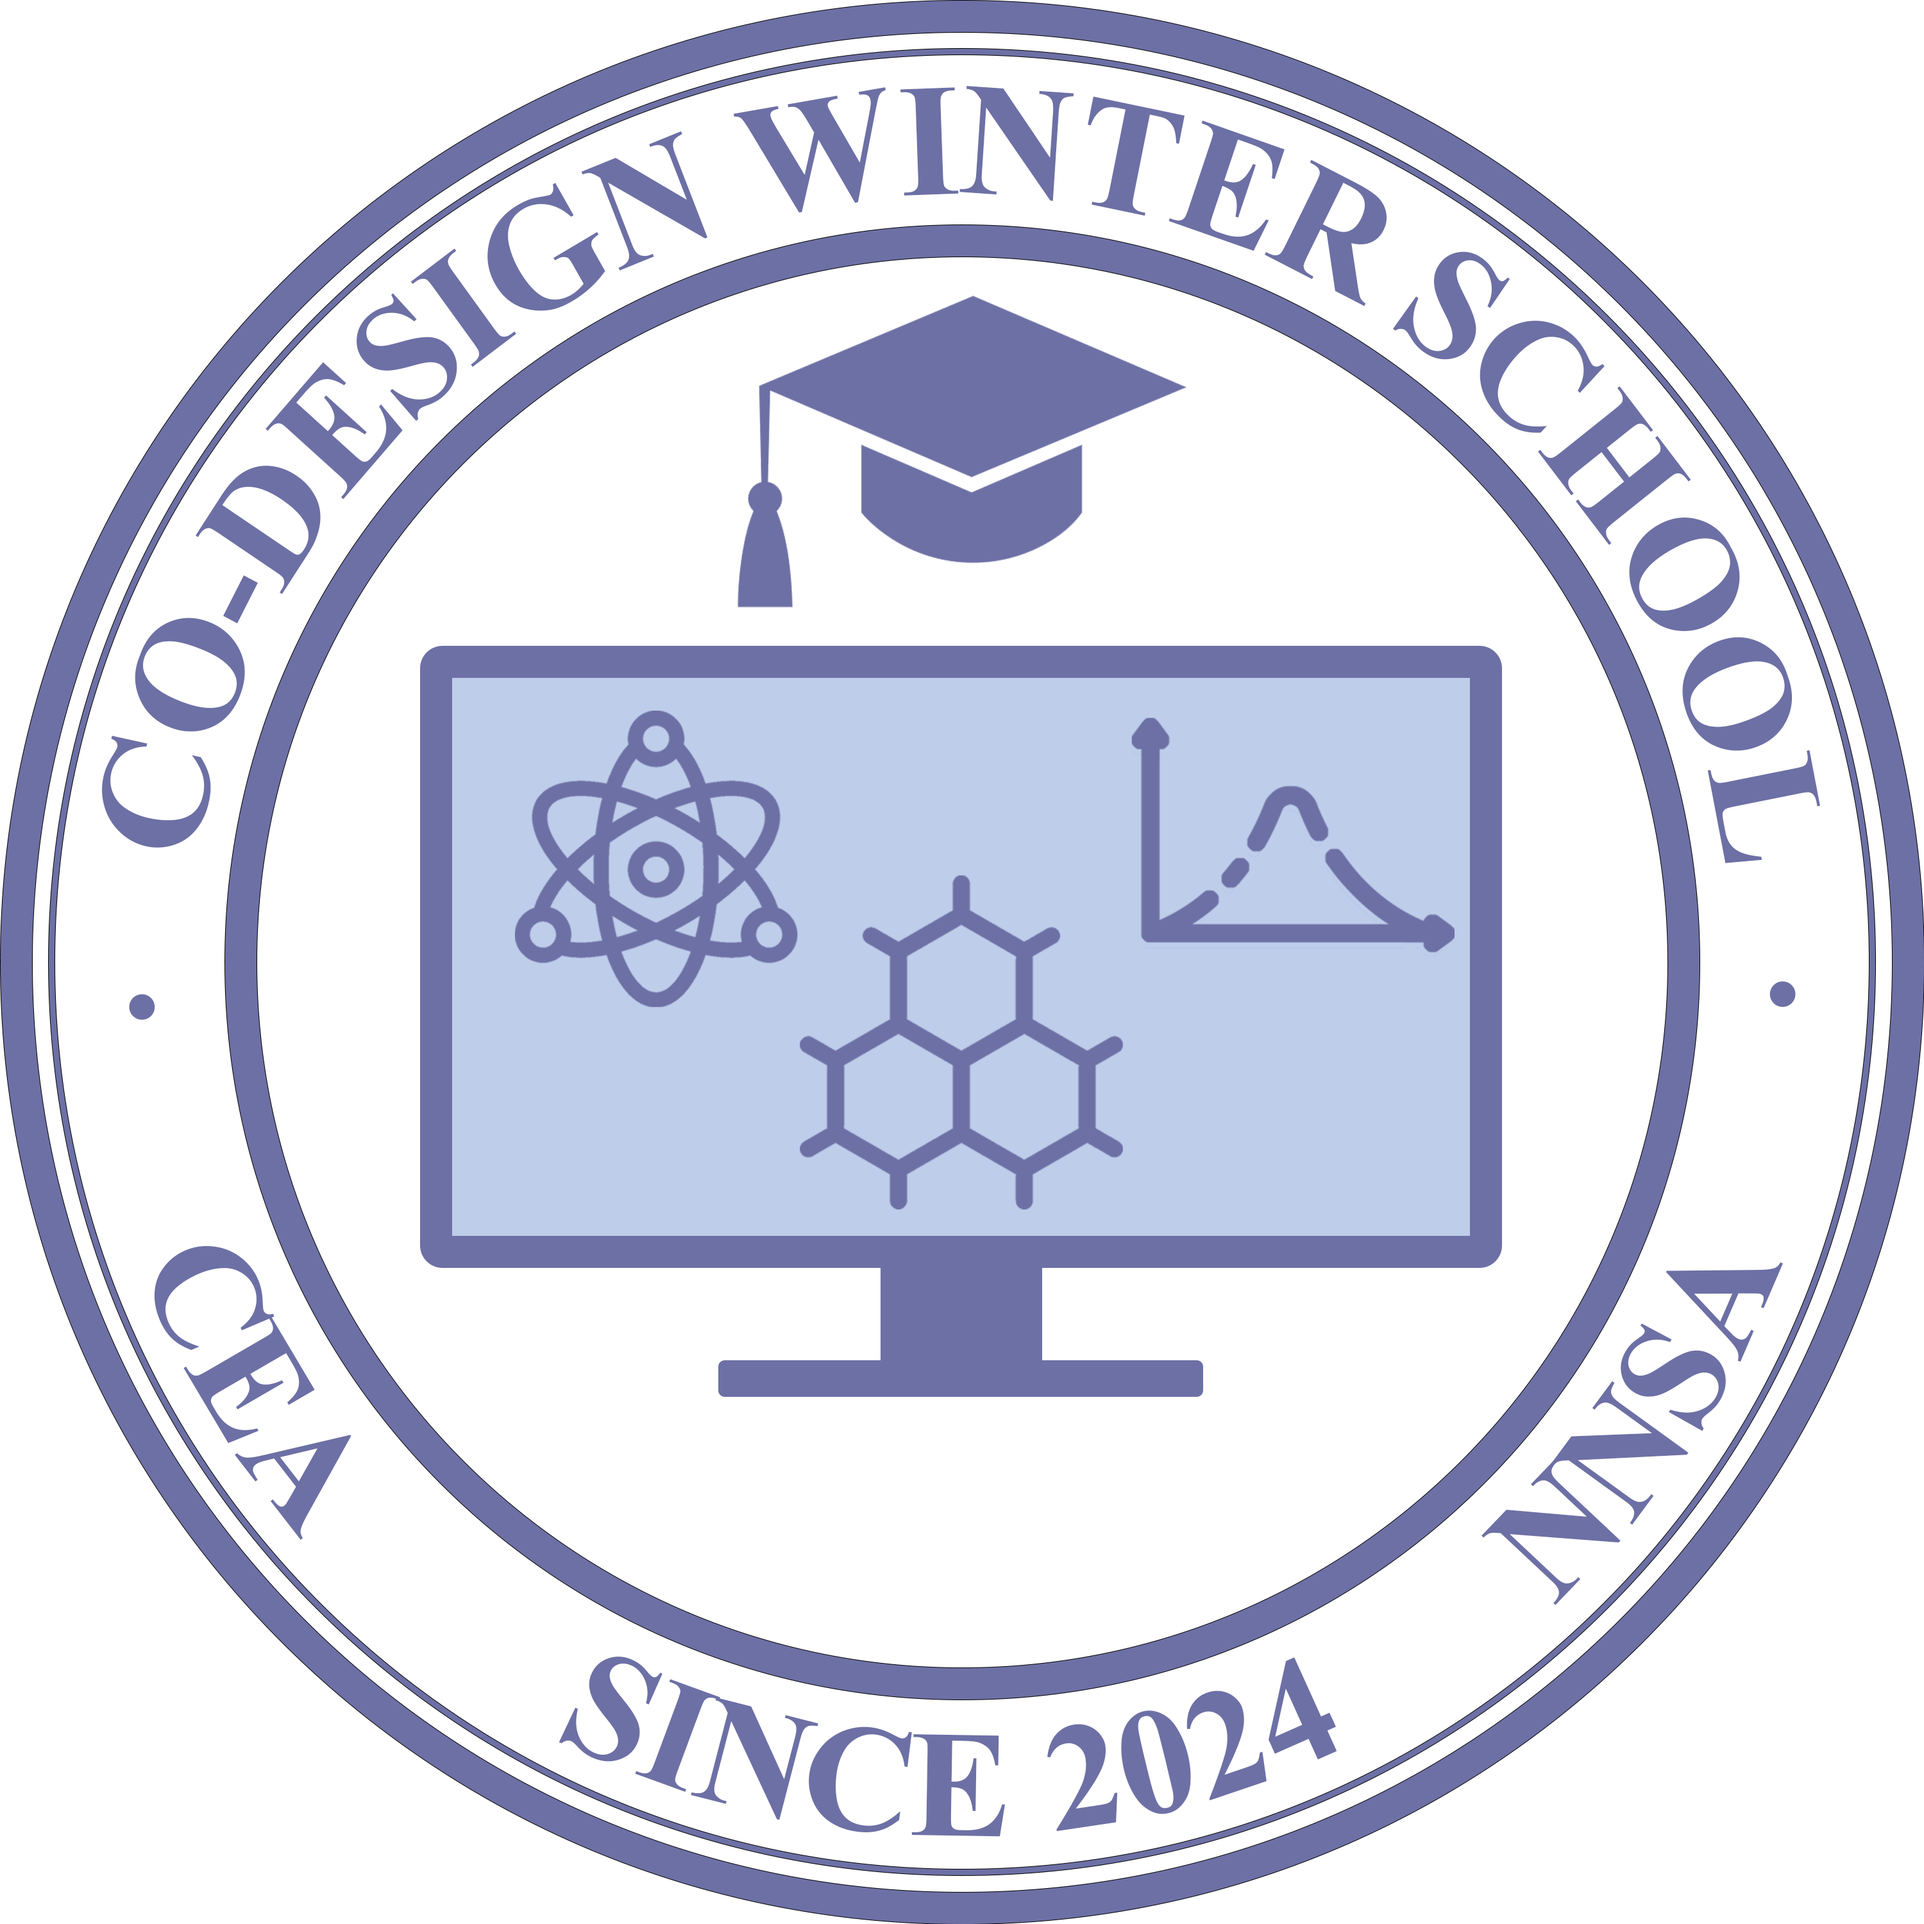
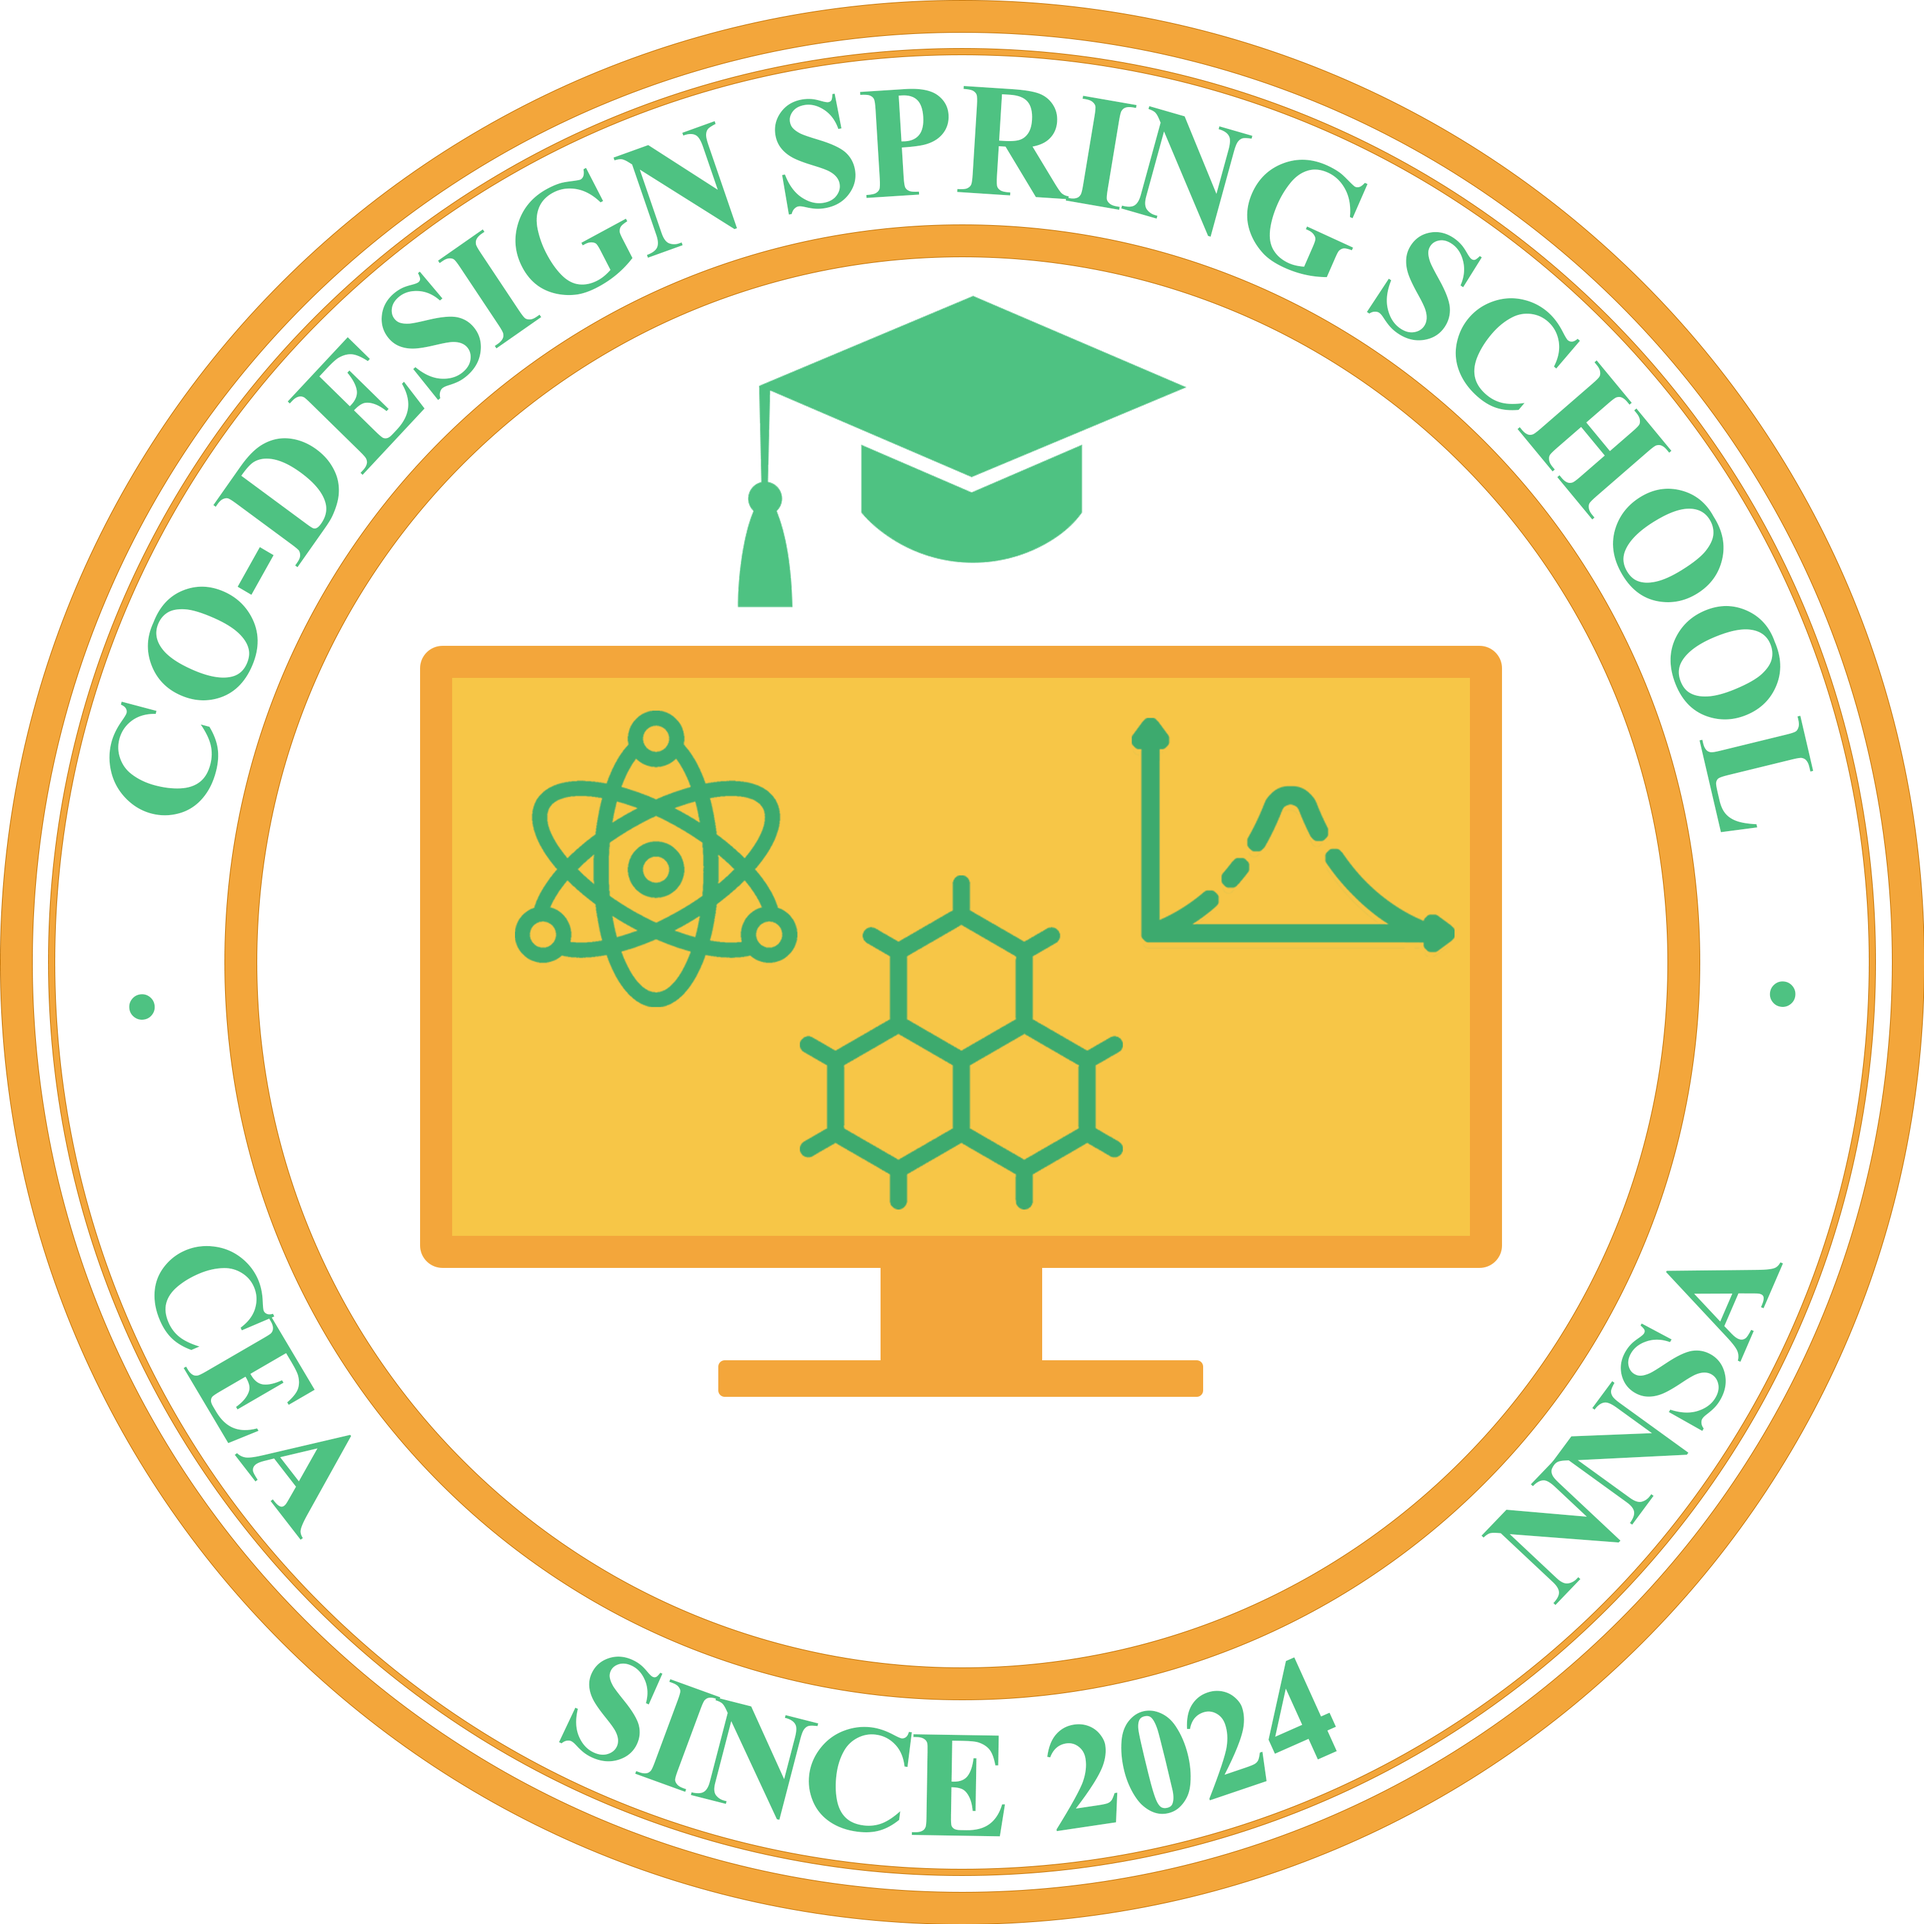
Update to Spring school

diff --git a/_layouts/default.html b/_layouts/default.html
@@ -22,7 +22,7 @@
   <body>
     <div class="wrapper">
       <header>
-	<h2><a href="{{ "/" | absolute_url }}">Co-Design Winter School</a></h2>
+	<h2><a href="{{ "/" | absolute_url }}">Co-Design Spring School</a></h2>
         <img src="images/CDWS.png" alt="Logo" style="display: block; margin-left: auto; margin-right: auto; max-width:70%;" />
 	<br/>
 	<h3 class="view" ><a href="{{ "/" | absolute_url }}">Home</a></h3>

diff --git a/_includes/header.html b/_includes/header.html
@@ -1,7 +1,7 @@
 <header class="site-header" role="banner">
   <div class="image" style="overflow:hidden;max-width:1920px;height:150px">
     <img src="images/binary.jpg" alt="" style="margin:-5% 0px -50% 0px;"/>
-    <font color=#FFFFFF><h1>LANL Co-Design Winter School</h1></font>
+    <font color=#FFFFFF><h1>LANL Co-Design Spring School</h1></font>
   </div>
 
   <div style="max-width:1920px;">

diff --git a/index.md b/index.md
@@ -1,22 +1,22 @@
 ---
-title: LANL Co-Design Winter School
+title: LANL Co-Design Spring School
 layout: default
 ---
 
-## What is the Co-Design Winter School?
+## What is the Co-Design Spring School?
 
 The complexification of simulation models and computing architecture make the interaction between scientists from all fields necessary. This is the heart of Co-Design. 
-As a part of the Co-Design collaboration between the National Nuclear Safety Administration (NNSA) and the French Alternative Energies and Atomic Energy Commission (CEA) we propose a Co-Design Winter School: classes on subjects on edge of research directly used in the national laboratories of both USA and France. 
+As a part of the Co-Design collaboration between the National Nuclear Safety Administration (NNSA) and the French Alternative Energies and Atomic Energy Commission (CEA) we propose a Co-Design Spring School: classes on subjects on edge of research directly used in the national laboratories of both USA and France. 
 
 
 ## What is Co-Design?
 
 Co-Design is the social and technical equivalent of a multiple-constraint optimization problem. The rapid evolution of computing architectures and the expanding space between specializations in domain science and computer architecture means that it is virtually impossible for a single individual to cover all of the skills needed to solve current-day computational science challenges. Co-Design bridges this space through interactions between members of an interdisciplinary team. With the right amount of overlap, team members can communicate with each other effectively to solve a problem.
 
-## 2024 Co-Design Winter School Focus:
+## 2024 Co-Design Spring School Focus:
 
 The current physical limitations have kept the speed of processor cores constrained. These limitations made the way for more parallelism. The supercomputers have grown to millions of cores or thousands of nodes which are harder to target using legacy methods such as bulk synchronous parallelism. In this context, task-based parallelism provides a promising path forward. Tools like FleCSI[^1], MPC[^2], Pygion[^3], and many others simplify the programming of heterogeneous supercomputers by providing sequential semantics. 
-The intent of this year’s Co-Design Winter School is to give to the students all the tools to step into the world of task-based parallelism. With classes from actors at the edge of computer science research, the school proposes a mix of lectures and hands-on to get familiar with the concepts of task-based parallelism and several software/frameworks implementing them. 
+The intent of this year’s Co-Design Spring School is to give to the students all the tools to step into the world of task-based parallelism. With classes from actors at the edge of computer science research, the school proposes a mix of lectures and hands-on to get familiar with the concepts of task-based parallelism and several software/frameworks implementing them. 
 
 [^1]: Bergen, Ben, et al. "FleCSI 2.0: The Flexible Computational Science Infrastructure Project." European Conference on Parallel Processing. Cham: Springer International Publishing, 2021.
 [^2]: Bouhrour, Stephane, Thibaut Pepin, and Julien Jaeger. "Towards leveraging collective performance with the support of MPI 4.0 features in MPC." Parallel Computing 109 (2022): 102860.

diff --git a/info.md b/info.md
@@ -1,5 +1,5 @@
 ---
-title: CEA/NNSA Co-Design Winter School
+title: CEA/NNSA Co-Design Spring School
 layout: default
 ---
 
@@ -20,7 +20,7 @@ URCA is host a multiple master in Computer Science with among them the master <a
 -	Deadline for registration: November 2023
 
 ### Inscription fees will cover: (Price TBD)
--	Winter School Attendance
+-	Spring School Attendance
 -	Hotel from Monday 22nd to Friday 26th 
 -	Meals (Breakfast + Lunch + Dinner) 
 -	Social Event: Champagne Cave visit 

diff --git a/registration.md b/registration.md
@@ -1,11 +1,11 @@
 ---
-title: LANL Co-Design Winter School
+title: LANL Co-Design Spring School
 layout: default
 ---
 
 ## Registration
 
-The requirements to register for the Co-Design Winter School 2024 are: 
+The requirements to register for the Co-Design Spring School 2024 are: 
 - Basic knowledge in High Performance Compute: MPI, OpenMP
 - TBD
 

diff --git a/contacts.md b/contacts.md
@@ -1,5 +1,5 @@
 ---
-title: CEA/NNSA Co-Design Winter School
+title: CEA/NNSA Co-Design Spring School
 layout: default
 ---
 
